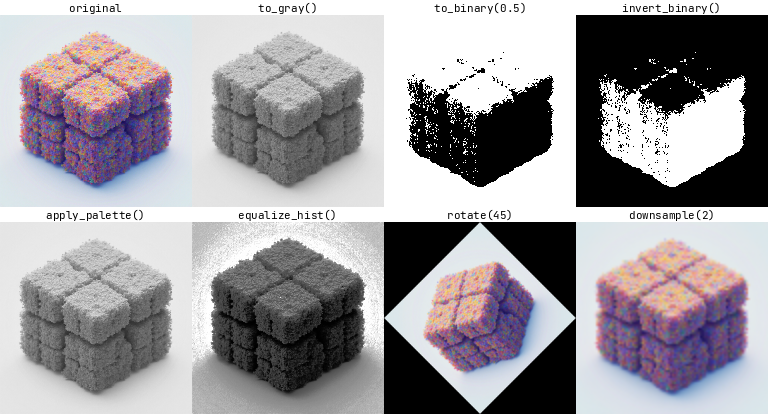
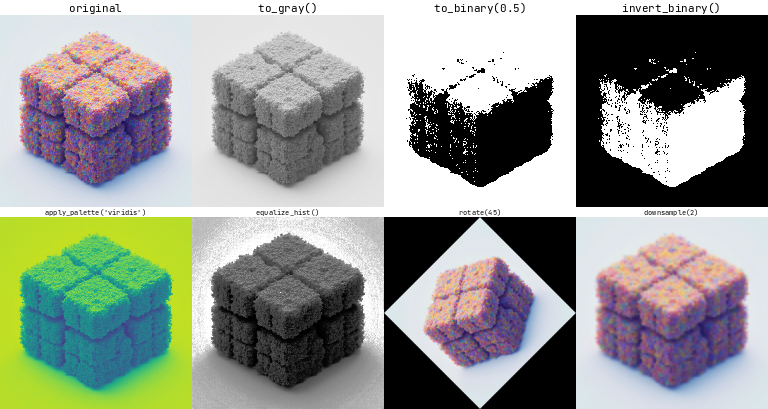
docs+test: address Codex review (PyPI URLs, runnable snippets, layout, regression)
- README image links → absolute raw.githubusercontent URLs so they render on
  PyPI's long description, not just on GitHub.
- README snippets now include their imports + a defined `mask_np`; pointer to
  the canonical generator at `pixelcache/examples/visuals.py`.
- "Visual examples" / "Installation" / "Basic Usage" now lead the README;
  "What's new in 0.1.0" moved to the bottom per user preference.
- Add uv badge alongside the other tooling badges.
- `_transformations_grid` pads narrower rows symmetrically (centred) instead
  of right-only so the asset never shows a lopsided black strip.
- Switch `apply_palette` demo to the matplotlib `"viridis"` colormap — the
  default segmentation palette is discrete and looked noisy on a natural
  image; `viridis` exercises the same code path with a continuous gradient.
- New `tests/test_make_image_grid.py` (4 tests) pins the `HashableDict[
  HashableList[HashableImage]]` input path: accepts, preserves key order,
  does not mutate the immutable input, pads unequal-length lists.

Total: 76/76 tests pass, mypy + ruff clean.

diff --git a/tests/test_make_image_grid.py b/tests/test_make_image_grid.py
@@ -1,0 +1,135 @@
+"""Regression tests for `HashableImage.make_image_grid`.
+
+Pinpoint the immutable-collection input path: the function must accept a
+`HashableDict[str, HashableList[HashableImage]]`, preserve insertion order
+(the grid layout depends on it), and never mutate the caller's input.
+"""
+
+from __future__ import annotations
+
+from typing import TYPE_CHECKING
+
+from pixelcache import (
+    HashableDict,
+    HashableImage,
+    HashableList,
+    ImageSize,
+)
+
+if TYPE_CHECKING:
+    import numpy as np
+    from jaxtyping import UInt8
+
+
+def _cell(
+    color: tuple[int, int, int],
+    base: UInt8[np.ndarray, "16 16 3"],
+) -> HashableImage:
+    arr = base.copy()
+    arr[:] = color
+    return HashableImage(arr)
+
+
+def test_make_image_grid_accepts_hashable_dict(
+    tiny_rgb_np: UInt8[np.ndarray, "16 16 3"],
+) -> None:
+    """Grid accepts an immutable `HashableDict` input without raising."""
+    images = HashableDict(
+        {
+            "zzz": HashableList([_cell((255, 0, 0), tiny_rgb_np)]),
+            "aaa": HashableList([_cell((0, 255, 0), tiny_rgb_np)]),
+            "mmm": HashableList([_cell((0, 0, 255), tiny_rgb_np)]),
+        }
+    )
+    grid = HashableImage.make_image_grid(
+        images, orientation="vertical", with_text=False
+    )
+    cell = ImageSize(height=16, width=16)
+    assert grid.size().height >= cell.height
+    assert grid.size().width >= cell.width * 3
+
+
+def test_make_image_grid_preserves_key_order(
+    tiny_rgb_np: UInt8[np.ndarray, "16 16 3"],
+) -> None:
+    """Non-alphabetical key order must survive into the laid-out grid.
+
+    For ``orientation="vertical"`` the dict-iteration order becomes the
+    left-to-right column order; we read the centre column of each input
+    cell's column band and assert the colours appear in the input order.
+    """
+    red = _cell((255, 0, 0), tiny_rgb_np)
+    green = _cell((0, 255, 0), tiny_rgb_np)
+    blue = _cell((0, 0, 255), tiny_rgb_np)
+
+    images = HashableDict(
+        {
+            "zzz": HashableList([red]),
+            "aaa": HashableList([green]),
+            "mmm": HashableList([blue]),
+        }
+    )
+    grid = HashableImage.make_image_grid(
+        images, orientation="vertical", with_text=False
+    )
+    grid_np = grid.numpy()
+    # 3 cells of width 16 → centre columns at x=8, 24, 40
+    centres = [grid_np[8, x] for x in (8, 24, 40)]
+    assert tuple(centres[0]) == (255, 0, 0)
+    assert tuple(centres[1]) == (0, 255, 0)
+    assert tuple(centres[2]) == (0, 0, 255)
+
+
+def test_make_image_grid_does_not_mutate_input(
+    tiny_rgb_np: UInt8[np.ndarray, "16 16 3"],
+) -> None:
+    """The immutable input must be unchanged after the call.
+
+    Stable hashes for the input ``HashableDict`` and inner ``HashableList``
+    before/after the call prove no leaf, key, or ordering changed.
+    """
+    images = HashableDict(
+        {
+            "first": HashableList([_cell((10, 20, 30), tiny_rgb_np)]),
+            "second": HashableList(
+                [
+                    _cell((40, 50, 60), tiny_rgb_np),
+                    _cell((70, 80, 90), tiny_rgb_np),
+                ]
+            ),
+        }
+    )
+    before_dict_hash = hash(images)
+    before_list_hashes = [hash(images[k]) for k in images]
+    before_keys = list(images.keys())
+
+    HashableImage.make_image_grid(
+        images, orientation="vertical", with_text=False
+    )
+
+    assert hash(images) == before_dict_hash
+    assert [hash(images[k]) for k in images] == before_list_hashes
+    assert list(images.keys()) == before_keys
+
+
+def test_make_image_grid_pads_unequal_list_lengths(
+    tiny_rgb_np: UInt8[np.ndarray, "16 16 3"],
+) -> None:
+    """Lists of differing lengths must pad with zeros_like without raising."""
+    images = HashableDict(
+        {
+            "one": HashableList([_cell((255, 0, 0), tiny_rgb_np)]),
+            "two_three": HashableList(
+                [
+                    _cell((0, 255, 0), tiny_rgb_np),
+                    _cell((0, 0, 255), tiny_rgb_np),
+                ]
+            ),
+        }
+    )
+    grid = HashableImage.make_image_grid(
+        images, orientation="vertical", with_text=False
+    )
+    # 2 columns x 2 rows of 16x16 cells -> at least 32x32
+    assert grid.size().height >= 32
+    assert grid.size().width >= 32

diff --git a/pixelcache/examples/visuals.py b/pixelcache/examples/visuals.py
@@ -37,7 +37,7 @@ def _transformations_grid(out_path: str) -> None:
         ],
     }
     row2 = {
-        "apply_palette()": [src.to_gray().apply_palette()],
+        "apply_palette('viridis')": [src.to_gray().apply_palette("viridis")],
         "equalize_hist()": [src.equalize_hist().to_rgb()],
         "rotate(45)": [
             src.rotate(45.0).resize(ImageSize(height=192, width=192))
@@ -55,12 +55,15 @@ def _transformations_grid(out_path: str) -> None:
 
     width = max(top.shape[1], bot.shape[1])
 
-    def _pad(a: np.ndarray) -> np.ndarray:
+    def _center_pad(a: np.ndarray) -> np.ndarray:
         if a.shape[1] == width:
             return a
-        return np.pad(a, ((0, 0), (0, width - a.shape[1]), (0, 0)))
+        gap = width - a.shape[1]
+        left = gap // 2
+        right = gap - left
+        return np.pad(a, ((0, 0), (left, right), (0, 0)))
 
-    stacked = np.vstack([_pad(top), _pad(bot)])
+    stacked = np.vstack([_center_pad(top), _center_pad(bot)])
     HashableImage(stacked).save(out_path)
     logger.success(f"Wrote {out_path}")
 

diff --git a/README.md b/README.md
@@ -2,7 +2,7 @@
 
 # PixelCache
 
-<img src="pixelcache/assets/pixel_cache.png" width="100" height="100"/>
+<img src="https://raw.githubusercontent.com/affromero/PixelCache/main/pixelcache/assets/pixel_cache.png" width="100" height="100"/>
 
 **One hashable wrapper for images stored as PIL, NumPy, or PyTorch — convert between them on demand, hash them safely as cache keys, and stop transferring pixel data through disk.**
 
@@ -12,6 +12,7 @@
 [![Tests](https://img.shields.io/github/actions/workflow/status/affromero/PixelCache/tests.yml?label=tests)](https://github.com/affromero/PixelCache/actions/workflows/tests.yml)
 [![Publish](https://img.shields.io/github/actions/workflow/status/affromero/PixelCache/publish.yml?label=publish)](https://github.com/affromero/PixelCache/actions/workflows/publish.yml)
 [![License: MIT](https://img.shields.io/github/license/affromero/PixelCache)](https://github.com/affromero/PixelCache/blob/main/LICENSE.md)
+[![uv](https://img.shields.io/endpoint?url=https://raw.githubusercontent.com/astral-sh/uv/main/assets/badge/v0.json)](https://github.com/astral-sh/uv)
 [![Ruff](https://img.shields.io/badge/code%20style-ruff-261230?logo=ruff)](https://github.com/astral-sh/ruff)
 [![mypy](https://img.shields.io/badge/typing-mypy%20strict-blue)](http://mypy-lang.org/)
 [![jaxtyping](https://img.shields.io/badge/shapes-jaxtyping-orange)](https://github.com/patrick-kidger/jaxtyping)
@@ -32,22 +33,6 @@
 
 Every accessor returns an **independent copy** by default. Need the zero-copy view? Use the explicit `.numpy_view()`, `.tensor_view()`, `.pil_view()`, or `.raw_view()` — and never mutate them.
 
-## What's new in 0.1.0
-
-This is a near-complete rewrite of pixelcache. See [`CHANGELOG.md`](CHANGELOG.md) for the full breakdown.
-
-![Hot-path speedups](pixelcache/assets/perf_0_1_0.png)
-
-| Operation                         | 0.0.x                                                  | 0.1.0                                                               |
-| --------------------------------- | ------------------------------------------------------ | ------------------------------------------------------------------- |
-| `HashableImage(numpy_array)` ctor | `~10 ms` (always wrote a temp PNG to disk)             | `<1 ms` (lazy — only writes on `get_filename()`)                    |
-| `read_image(path)`                | Double-decode (EXIF check + actual decode)             | Single-decode (one PIL open or torchvision fast-path)               |
-| `hash(img)` (cached)              | `~17 μs` (re-materialized full pixel bytes every call) | `~0.4 μs` (xxhash content fingerprint cached on the instance)       |
-| `img.numpy()`                     | Returned the internal buffer (footgun)                 | Returns an independent copy — `numpy_view()` for explicit zero-copy |
-| `HashableDict` / `HashableList`   | Mutable, with stale-hash hazards                       | Immutable; deep-copy mutable leaves; read-side leaf protection      |
-
-Plus 12+ correctness bugs fixed (ImageCrop dims, Points axes, PIL-mode handling, `mask2bbox`, `bgr2rgb` torch path, `get_filename` fidelity, …) across 8 rounds of adversarial review.
-
 ## What can you build with it?
 
 PixelCache is the glue layer between PIL / NumPy / PyTorch image code that doesn't want to know which one it's holding. Some workflows it makes much simpler:
@@ -65,9 +50,11 @@ PixelCache is the glue layer between PIL / NumPy / PyTorch image code that doesn
 
 The same `HashableImage` instance can drive a whole pipeline — color, threshold, palette, geometric ops — without ever touching disk:
 
-![Transformations grid](pixelcache/assets/transformations.png)
+![Transformations grid](https://raw.githubusercontent.com/affromero/PixelCache/main/pixelcache/assets/transformations.png)
 
 ```python
+from pixelcache import HashableImage, ImageSize
+
 img = HashableImage("photo.jpg").resize(ImageSize(height=256, width=256))
 
 HashableImage.make_image_grid(
@@ -75,7 +62,7 @@ HashableImage.make_image_grid(
         "original":      [img],
         "to_gray()":     [img.to_gray().to_rgb()],
         "to_binary(.5)": [img.to_gray().to_binary(0.5).to_rgb()],
-        "apply_palette": [img.to_gray().apply_palette()],
+        "apply_palette": [img.to_gray().apply_palette("viridis")],
         "equalize_hist": [img.equalize_hist().to_rgb()],
         "rotate(45)":    [img.rotate(45.0).resize(ImageSize(height=256, width=256))],
     },
@@ -86,14 +73,21 @@ HashableImage.make_image_grid(
 
 Mask-driven workflows are one chain — derive a mask, blend it for debugging, crop the region of interest:
 
-![Mask workflow](pixelcache/assets/mask_workflow.png)
+![Mask workflow](https://raw.githubusercontent.com/affromero/PixelCache/main/pixelcache/assets/mask_workflow.png)
 
 ```python
-img    = HashableImage("photo.jpg")
-mask   = HashableImage(mask_np).to_binary(0.5)              # any source: numpy / torch / PIL
-debug  = img.blend(mask.to_rgb(), alpha=0.45, with_bbox=False)
-region = img.crop_from_mask(mask)                            # send `region` to your model
+import numpy as np
+from pixelcache import HashableImage
+
+img     = HashableImage("photo.jpg")
+mask_np = np.zeros((img.size().height, img.size().width), dtype=np.uint8)
+mask_np[64:192, 64:192] = 255                              # or any source: torch / PIL / detection model
+mask    = HashableImage(mask_np).to_binary(0.5)
+debug   = img.blend(mask.to_rgb(), alpha=0.45, with_bbox=False)
+region  = img.crop_from_mask(mask)                          # send `region` to your model
 ```
+
+The full reproducible generator for both PNGs lives in [`pixelcache/examples/visuals.py`](pixelcache/examples/visuals.py).
 
 ## Installation
 
@@ -282,3 +276,19 @@ If you found PixelCache useful, check out some other projects from the same auth
 | [**yazi-ssh.yazi**](https://github.com/affromero/yazi-ssh.yazi) | Browse remote filesystems in yazi over SSH                      | Lua · yazi plugin |
 | [**ply2lcc**](https://github.com/affromero/ply2lcc)             | Convert Gaussian Splats in PLY → XGRIDS LCC format              | Python · 3D       |
 | [**riasec-co**](https://github.com/affromero/riasec-co)         | Bayesian vocational orientation engine for Colombia             | npm · PyPI · CRAN |
+
+## What's new in 0.1.0
+
+This is a near-complete rewrite of pixelcache. See [`CHANGELOG.md`](CHANGELOG.md) for the full breakdown.
+
+![Hot-path speedups](https://raw.githubusercontent.com/affromero/PixelCache/main/pixelcache/assets/perf_0_1_0.png)
+
+| Operation                         | 0.0.x                                                  | 0.1.0                                                               |
+| --------------------------------- | ------------------------------------------------------ | ------------------------------------------------------------------- |
+| `HashableImage(numpy_array)` ctor | `~10 ms` (always wrote a temp PNG to disk)             | `<1 ms` (lazy — only writes on `get_filename()`)                    |
+| `read_image(path)`                | Double-decode (EXIF check + actual decode)             | Single-decode (one PIL open or torchvision fast-path)               |
+| `hash(img)` (cached)              | `~17 μs` (re-materialized full pixel bytes every call) | `~0.4 μs` (xxhash content fingerprint cached on the instance)       |
+| `img.numpy()`                     | Returned the internal buffer (footgun)                 | Returns an independent copy — `numpy_view()` for explicit zero-copy |
+| `HashableDict` / `HashableList`   | Mutable, with stale-hash hazards                       | Immutable; deep-copy mutable leaves; read-side leaf protection      |
+
+Plus 12+ correctness bugs fixed (ImageCrop dims, Points axes, PIL-mode handling, `mask2bbox`, `bgr2rgb` torch path, `get_filename` fidelity, …) across 8 rounds of adversarial review.